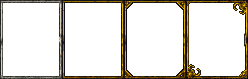
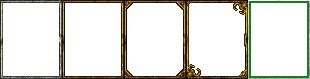
Add gallery card frame

Changed region(s): [[0.0, 0.0, 1.0, 1.0], [0.6774, 0.0, 0.7056, 0.0253], [0.2823, 0.0, 0.3105, 0.0253]]

diff --git a/src/app/components/Card/Card.module.scss b/src/app/components/Card/Card.module.scss
@@ -68,7 +68,7 @@
         position: absolute;
         top: 0;
         left: 0;
-        background-size: 506px 161px;
+        background-size: 633px 161px;
         backface-visibility: hidden;
     }
 
@@ -89,6 +89,12 @@
     &[data-level="10"] {
         &::after {
             background-position-x: -380px;
+        }
+    }
+
+    &[data-gallery=true] {
+        &::after {
+            background-position-x: -507px;
         }
     }
 }
